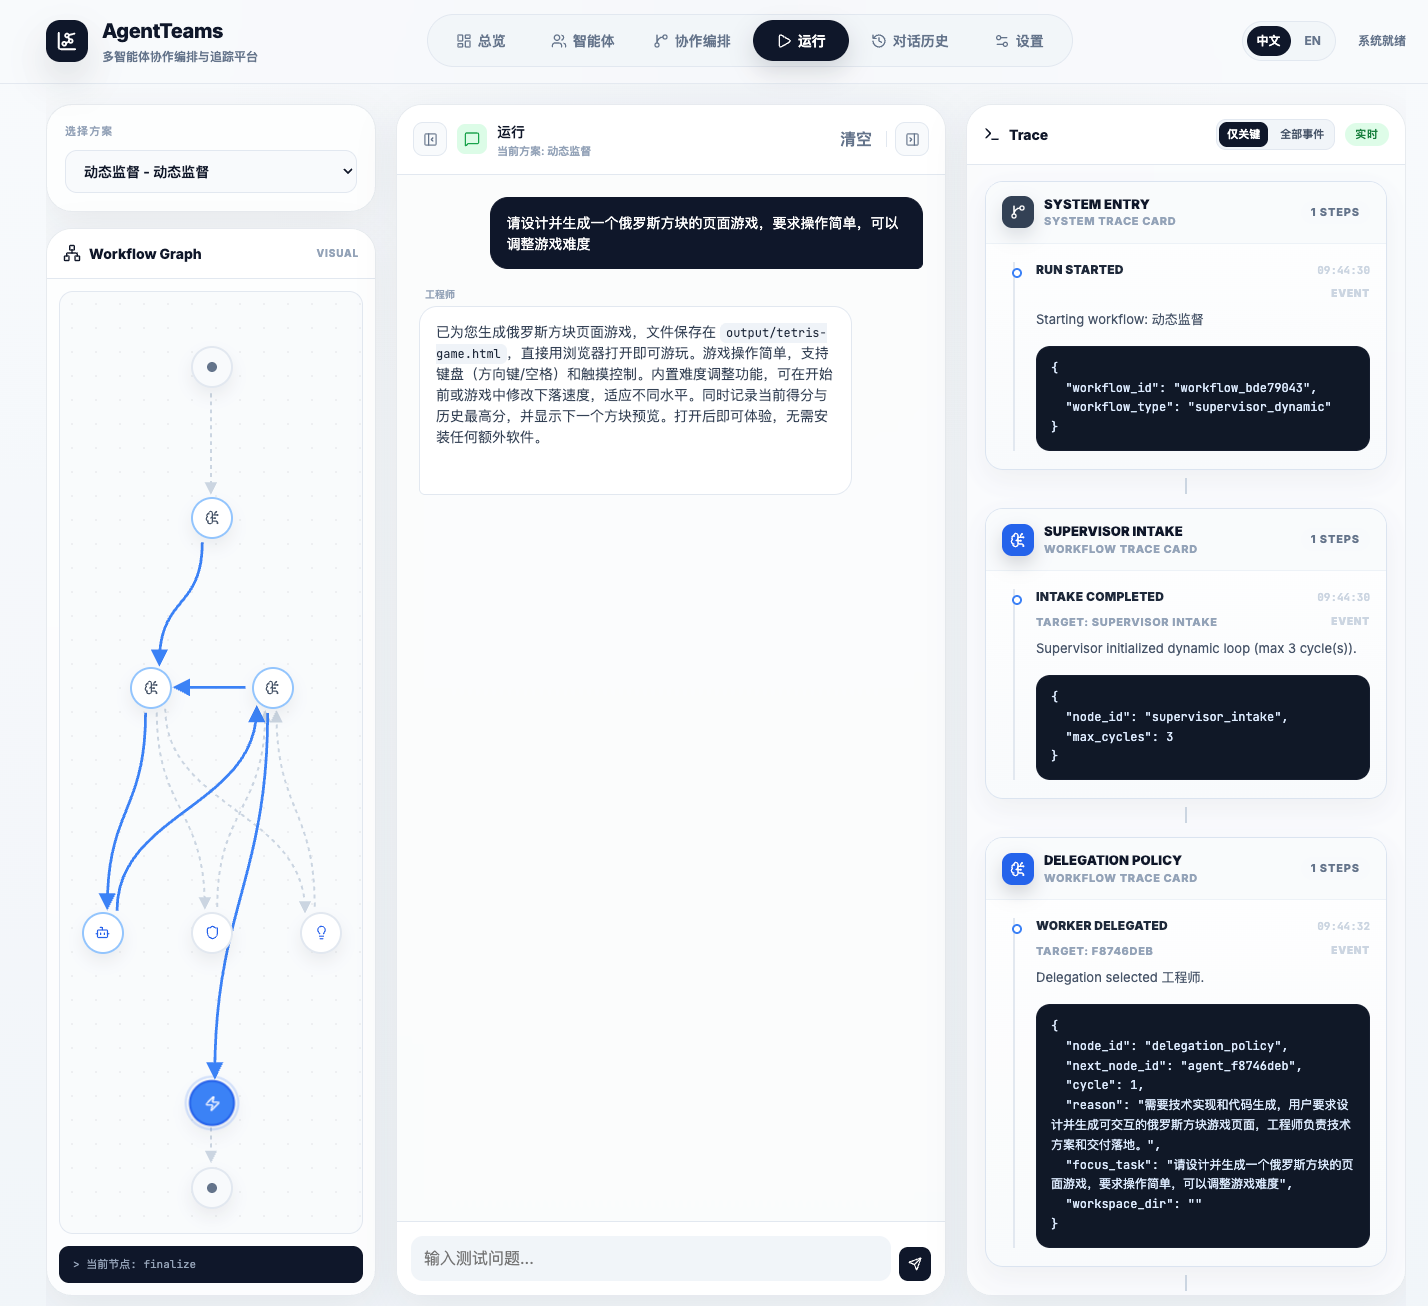
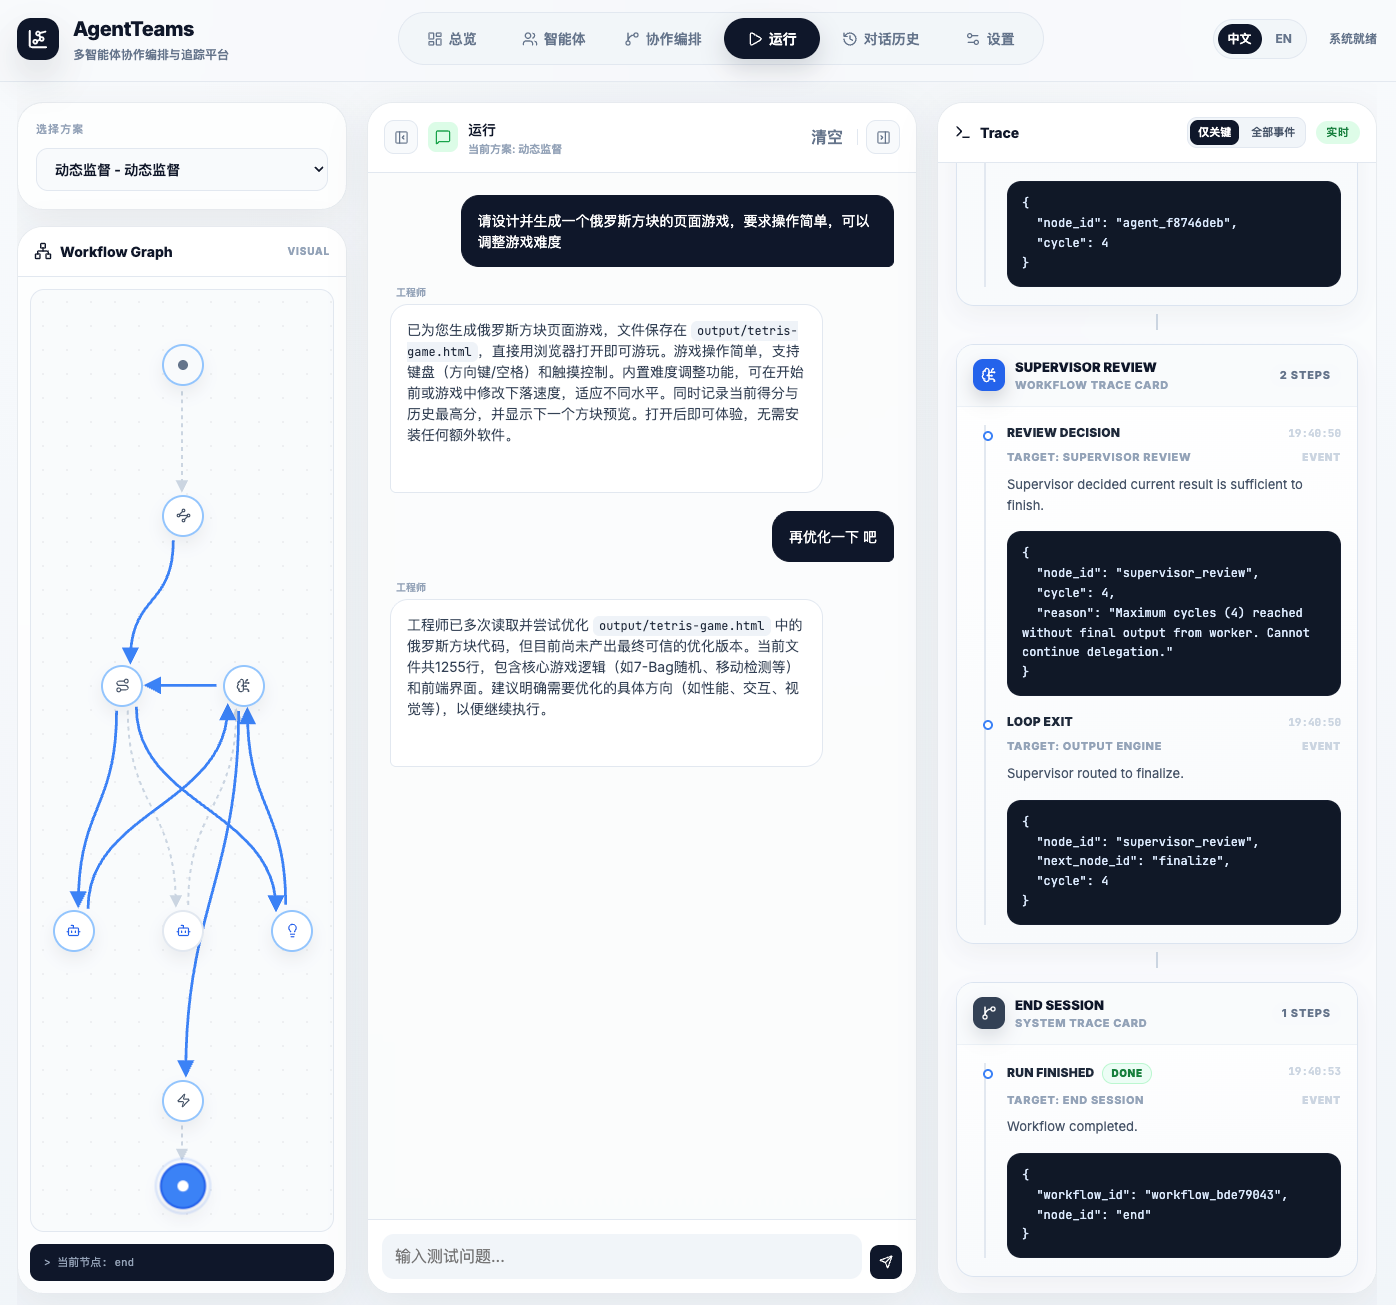
perf: 优化同伴交接模式下的agent 布局

diff --git a/frontend/src/components/GraphViewer.vue b/frontend/src/components/GraphViewer.vue
@@ -176,36 +176,42 @@ function layoutPeerHandoff(nodes, width, height) {
   placeNode(result, map, "start", width * 0.5, height * 0.08);
   placeNode(result, map, "first_owner_router", width * 0.5, height * 0.23);
 
-  const groupWidth = Math.min(width * 0.74, Math.max(340, width * 0.68));
-  const groupHeight = Math.min(height * 0.5, Math.max(210, height * 0.42));
+  const groupWidth = Math.min(width * 0.78, Math.max(380, width * 0.72));
+  const groupHeight = Math.min(height * 0.56, Math.max(260, height * 0.48));
   if (groupNode) {
     result.push({
       ...groupNode,
       x: width * 0.5,
-      y: height * (finalNode ? 0.54 : 0.6),
+      y: height * (finalNode ? 0.55 : 0.62),
       boxWidth: groupWidth,
       boxHeight: groupHeight,
     });
   }
 
   if (agents.length) {
-    const columns = Math.min(3, agents.length);
-    const rows = Math.ceil(agents.length / columns);
-    const innerLeft = width * 0.5 - groupWidth / 2 + 82;
-    const innerRight = width * 0.5 + groupWidth / 2 - 82;
-    const innerTop = (groupNode ? height * (finalNode ? 0.54 : 0.6) : height * 0.58) - groupHeight / 2 + 74;
-    const innerBottom = (groupNode ? height * (finalNode ? 0.54 : 0.6) : height * 0.58) + groupHeight / 2 - 58;
+    const centerX = width * 0.5;
+    const centerY = height * (finalNode ? 0.55 : 0.62);
+    const radiusX = Math.min(groupWidth * 0.32, 120);
+    const radiusY = Math.min(groupHeight * 0.32, 80);
 
-    agents.forEach((node, index) => {
-      const column = columns === 1 ? 0 : index % columns;
-      const row = Math.floor(index / columns);
-      const x = columns === 1 ? width * 0.5 : innerLeft + ((innerRight - innerLeft) * column) / (columns - 1);
-      const y = rows === 1 ? (innerTop + innerBottom) / 2 : innerTop + ((innerBottom - innerTop) * row) / (rows - 1);
-      result.push({ ...node, x, y });
-    });
+    if (agents.length === 2) {
+      result.push({ ...agents[0], x: centerX - radiusX, y: centerY });
+      result.push({ ...agents[1], x: centerX + radiusX, y: centerY });
+    } else if (agents.length === 3) {
+      result.push({ ...agents[0], x: centerX, y: centerY - radiusY });
+      result.push({ ...agents[1], x: centerX - radiusX * 0.9, y: centerY + radiusY * 0.5 });
+      result.push({ ...agents[2], x: centerX + radiusX * 0.9, y: centerY + radiusY * 0.5 });
+    } else {
+      agents.forEach((node, index) => {
+        const angle = (index / agents.length) * 2 * Math.PI - Math.PI / 2;
+        const x = centerX + radiusX * Math.cos(angle);
+        const y = centerY + radiusY * Math.sin(angle);
+        result.push({ ...node, x, y });
+      });
+    }
   }
 
-  if (finalNode) placeNode(result, map, "finalize", width * 0.5, height * 0.86);
+  if (finalNode) placeNode(result, map, "finalize", width * 0.5, height * 0.88);
   if (endNode) placeNode(result, map, "end", width * 0.5, height * 0.95);
   return result;
 }